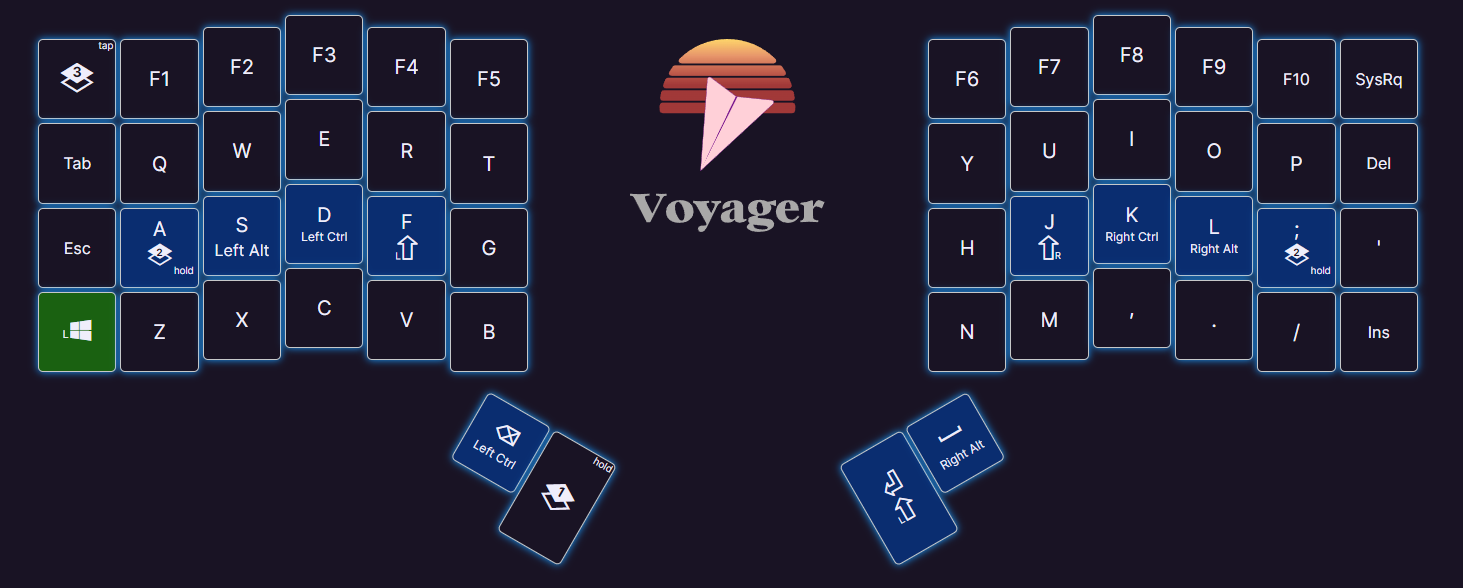
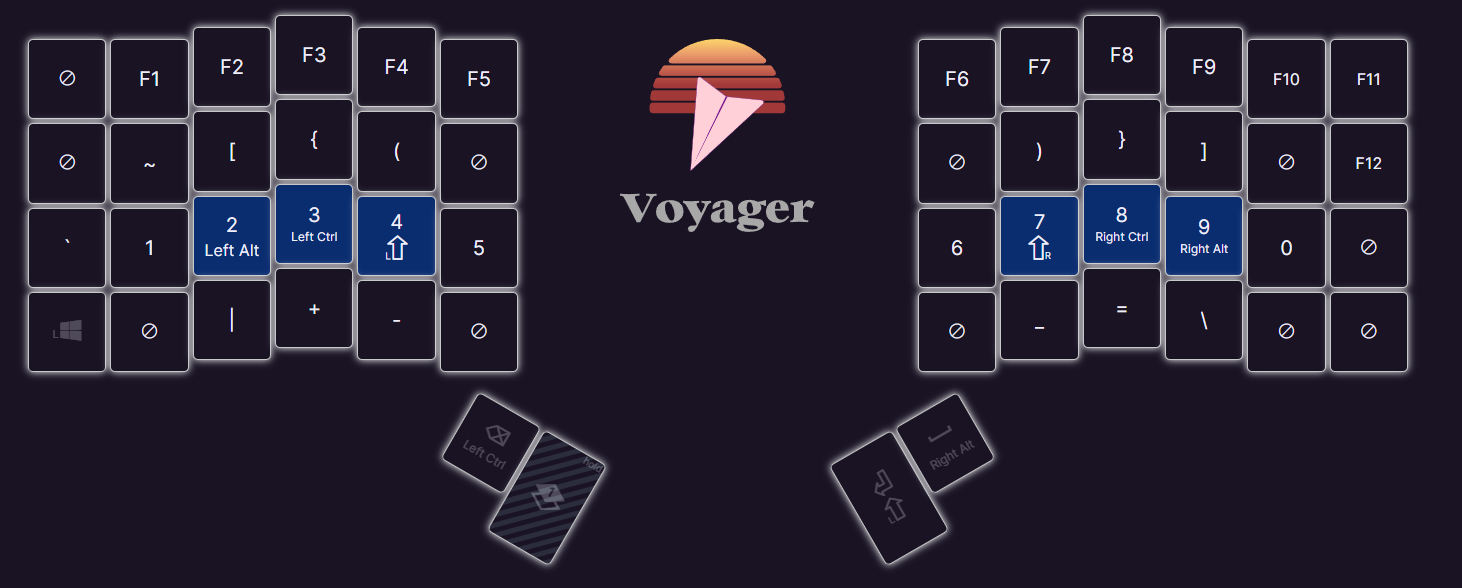
Update layer names

diff --git a/README.md b/README.md
@@ -10,7 +10,7 @@ My keyboard is the [ZSA Voyager](https://www.zsa.io/voyager), which has 52 keys.
 
 This layer contains all the expected stuff in QWERTY layout. There are some small changes such as Esc where CAPS normally is (shoutout Vim users). 
 
-![Layer 1](./layer1.PNG)
+![Layer 1](./layer0.PNG)
 
 ## 1. Numbers / Symbols Layer
 
@@ -21,16 +21,16 @@ All numbers / symbols live here. Symbols such as ! and @ are typed using shifted
 - Bracket types all open and close with the same finger. 
 
 
-![Layer 2](./layer2.PNG)
+![Layer 2](./layer1.PNG)
 
 ## 2. Navigation / Media Controls Layer
  
 Arrow keys are placed in the same position as Vim motions movement. Home/End and PageUp/PageDown have also been placed to match the arrow key placement for less mental overhead.
 
-![Layer 3](./layer3.PNG)
+![Layer 3](./layer2.PNG)
 
 ## 3. Gaming Layer
 
 Changes the keys to be more friendly for playing games.
 
-![Layer 4](./layer4.PNG)
+![Layer 4](./layer3.PNG)
